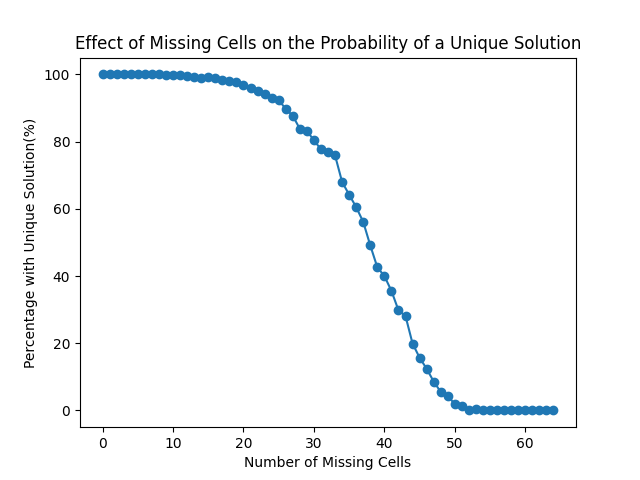
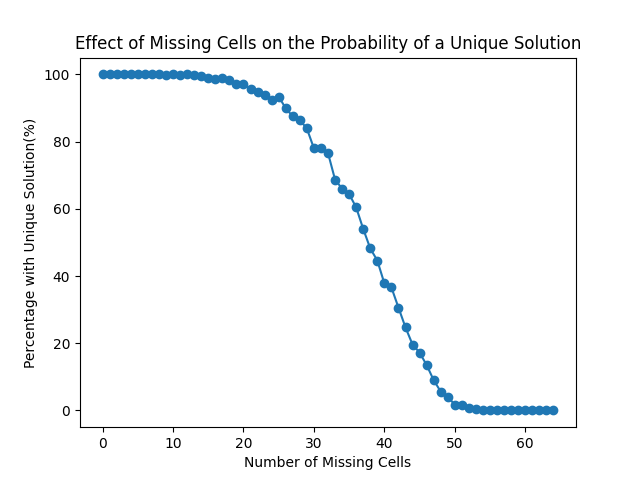
updated random analysis

diff --git a/analysis/random_analyse_sudoku.py b/analysis/random_analyse_sudoku.py
@@ -59,7 +59,7 @@ plt.xlabel("Number of Mssing Cells")
 plt.ylabel("Total Runtime(ms)")
 plt.yscale("log")
 
-plt.title("Relationship between Missing Cells and Runtiem")
+plt.title("Relationship between Missing Cells and Runtime")
 plt.savefig("runtime_relationship.png")
 
 
